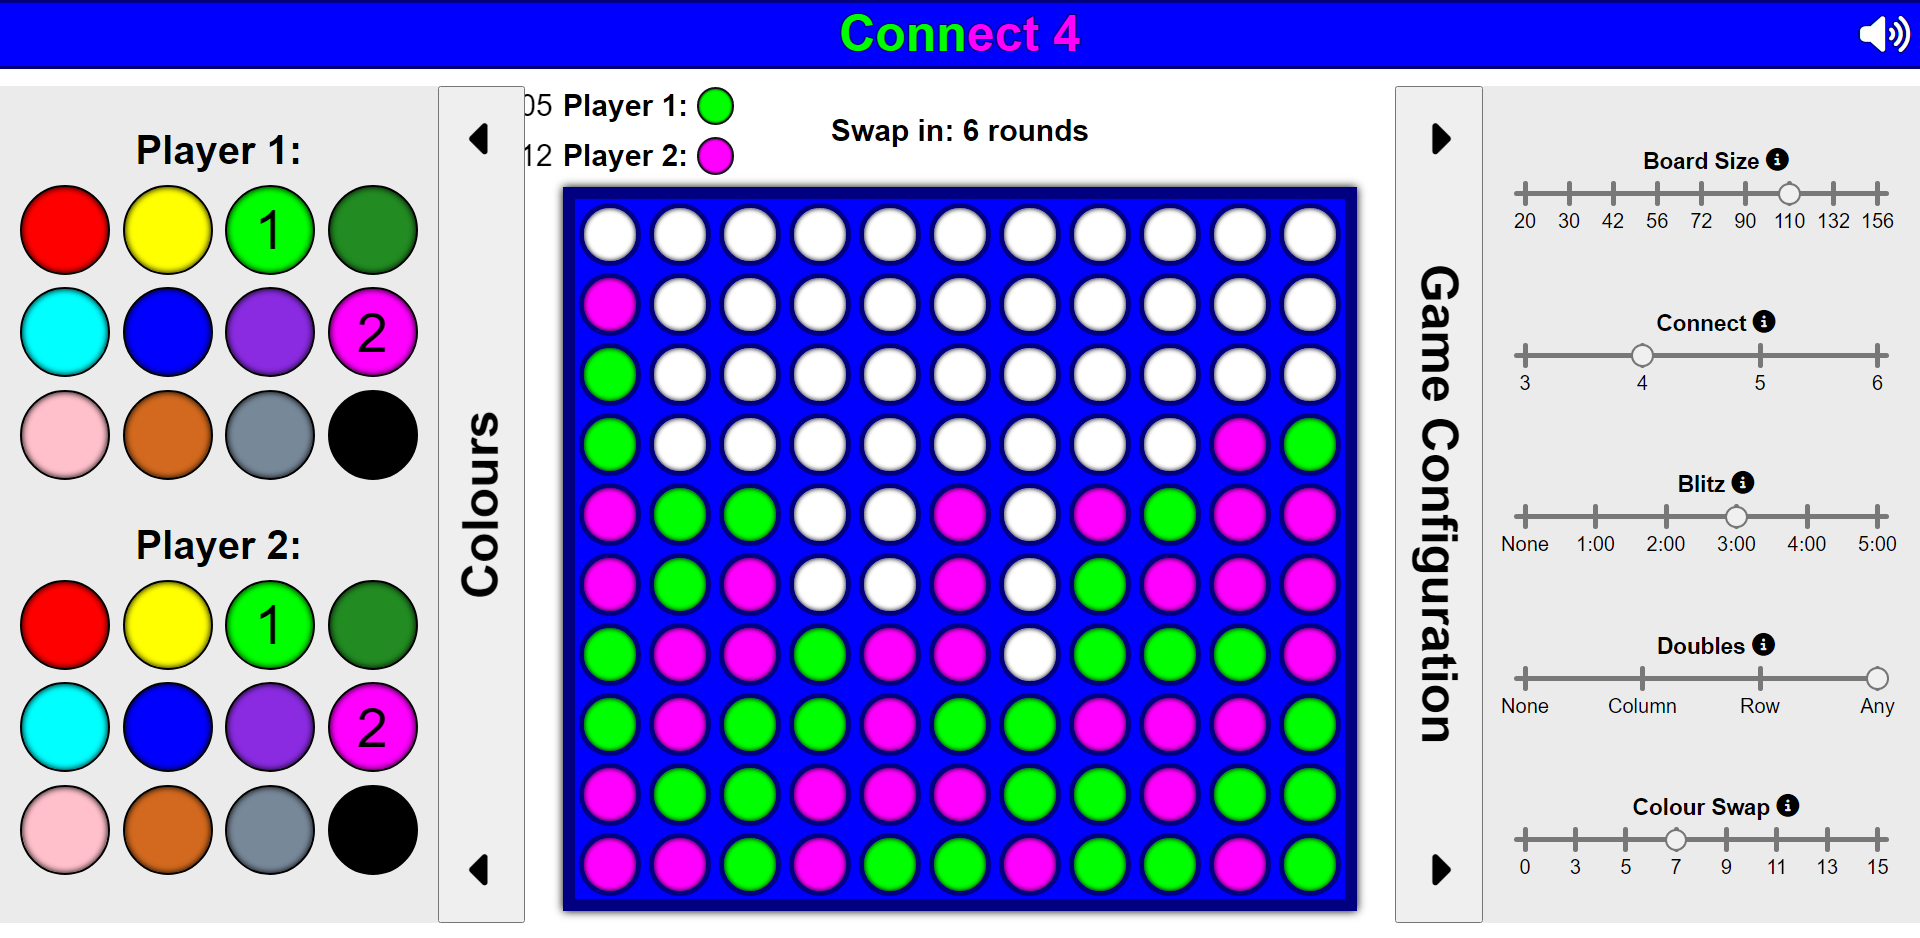
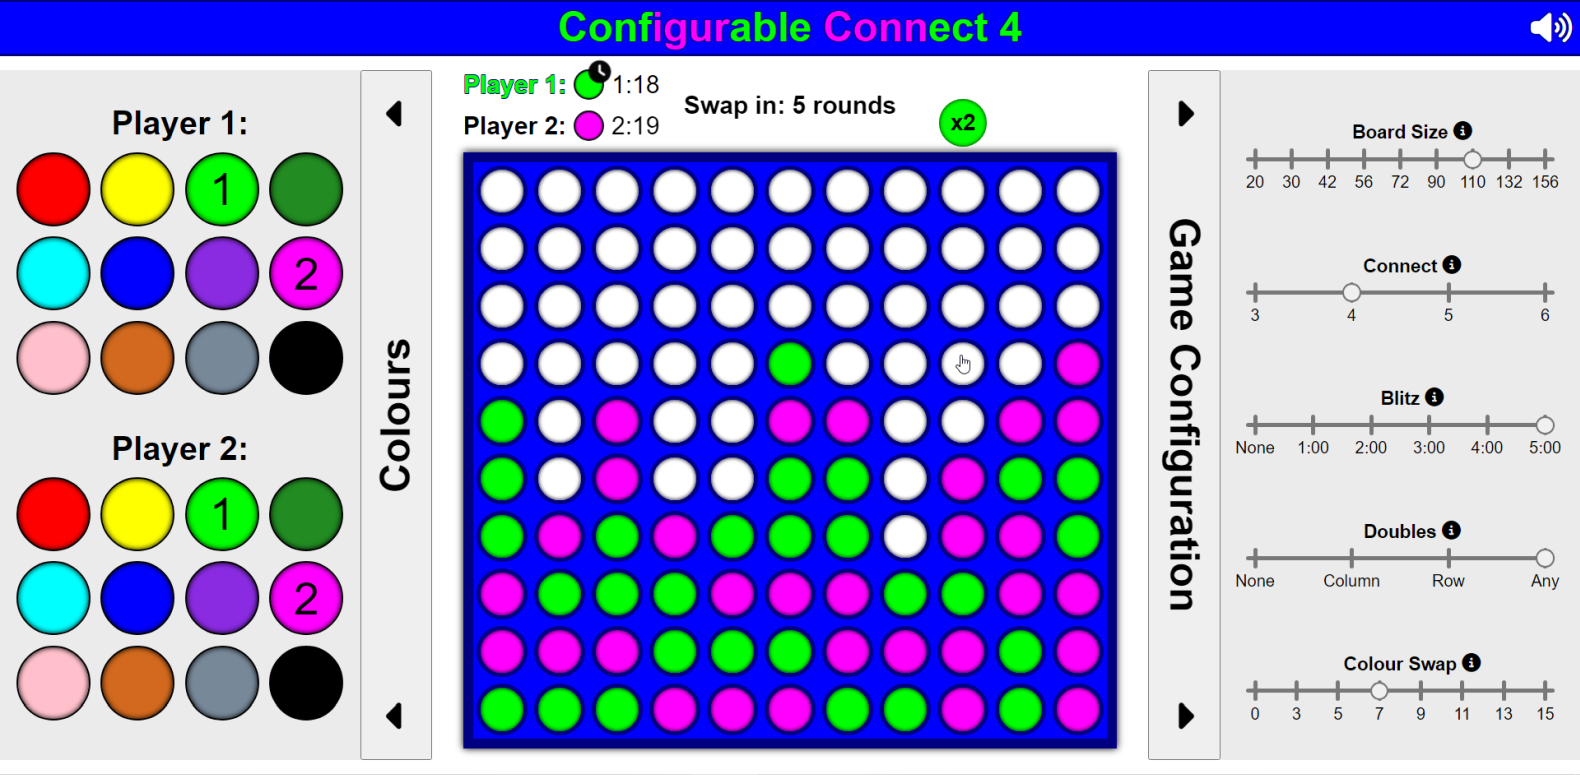
Updated connect project image

diff --git a/index.html b/index.html
@@ -156,9 +156,9 @@
                 </div>
                 <div class="project project-right" id="project-2">
                     <div class="project-info">
-                        <h2 class="project-heading">Configurable Connect 4</h2>
+                        <h2 class="project-heading">Configurable Connect</h2>
                         <h3 class="project-stack" id="project-stack-connect">JavaScript/jQuery • HTML • CSS</h3>
-                        <p class="project-description">Connect pieces in a game that includes multiple game modes, colour settings, and animations.</p>
+                        <p class="project-description">Connect pieces in a game that includes multiple game modes, colour settings, and animations. Also responsive.</p>
                         <div class="project-lives__cont">
                             <a class="project-live project-live-1 project-live-game" href="https://configurable-connect4-game.netlify.app/">LIVE GAME</a>
                             <a class="project-live project-live-2" href="https://github.com/Mohammad-SU/Configurable-Connect4-Game">LEARN MORE</a>      

diff --git a/src/components/global/global.scss b/src/components/global/global.scss
@@ -44,18 +44,8 @@ html {
     }
 }
 
-@font-face { // For mobile
-    font-family: "Consolas"; 
-    src: url("//db.onlinewebfonts.com/t/771d2a89fb0fc4c6f7942f46f6790e09.eot"); 
-    src: url("//db.onlinewebfonts.com/t/771d2a89fb0fc4c6f7942f46f6790e09.eot?#iefix") format("embedded-opentype"), 
-        url("//db.onlinewebfonts.com/t/771d2a89fb0fc4c6f7942f46f6790e09.woff2") format("woff2"), 
-        url("//db.onlinewebfonts.com/t/771d2a89fb0fc4c6f7942f46f6790e09.woff") format("woff"), 
-        url("//db.onlinewebfonts.com/t/771d2a89fb0fc4c6f7942f46f6790e09.ttf") format("truetype"), 
-        url("//db.onlinewebfonts.com/t/771d2a89fb0fc4c6f7942f46f6790e09.svg#Consolas") format("svg"); 
-}
-
 body {
-    font-family: Consolas, consolas, monospace;
+    font-family: consolas, consolas, monospace, monospace;
     font-weight: normal;
     font-style: normal;
     background: black;

diff --git a/dist/css/global.css b/dist/css/global.css
@@ -63,13 +63,8 @@ html {
   }
 }
 
-@font-face {
-  font-family: "Consolas";
-  src: url("//db.onlinewebfonts.com/t/771d2a89fb0fc4c6f7942f46f6790e09.eot");
-  src: url("//db.onlinewebfonts.com/t/771d2a89fb0fc4c6f7942f46f6790e09.eot?#iefix") format("embedded-opentype"), url("//db.onlinewebfonts.com/t/771d2a89fb0fc4c6f7942f46f6790e09.woff2") format("woff2"), url("//db.onlinewebfonts.com/t/771d2a89fb0fc4c6f7942f46f6790e09.woff") format("woff"), url("//db.onlinewebfonts.com/t/771d2a89fb0fc4c6f7942f46f6790e09.ttf") format("truetype"), url("//db.onlinewebfonts.com/t/771d2a89fb0fc4c6f7942f46f6790e09.svg#Consolas") format("svg");
-}
 body {
-  font-family: Consolas, consolas, monospace;
+  font-family: consolas, consolas, monospace, monospace;
   font-weight: normal;
   font-style: normal;
   background: black;

diff --git a/src/components/global/global.js b/src/components/global/global.js
@@ -106,7 +106,7 @@ tsParticles.load("particles-main-content", {
         {
             maxWidth: 800,
             options: {
-                detectRetina: false,
+                detectRetina: false
             }
         },
         {
